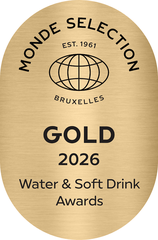
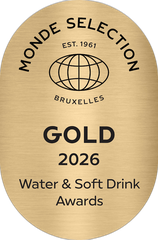
fix(collection): Monde 뱃지 흰 배경 제거 — 금색 타원 메달만 (검정 카드 매칭)
- 흰 사각 배경 → 투명, 금색 타원 메달만 남김
- WDA 세계1위 로고와 높이 동일(54px)
- 캐시버스트 monde.png?v=2

diff --git a/index.html b/index.html
@@ -460,7 +460,7 @@
       <span class="bot-size">375ml</span>
       <span class="bot-ribbon">세계 1위</span>
       <figure class="bot-img">
-        <span class="bot-badges"><img class="bot-badge" src="images/badges/wda_worlds_best.png" alt="World Drinks Awards 2024 World's Best" loading="lazy" /><img class="bot-badge" src="images/badges/monde.png" alt="Monde Selection Gold 2026" loading="lazy" /></span>
+        <span class="bot-badges"><img class="bot-badge" src="images/badges/wda_worlds_best.png" alt="World Drinks Awards 2024 World's Best" loading="lazy" /><img class="bot-badge" src="images/badges/monde.png?v=2" alt="Monde Selection Gold 2026" loading="lazy" /></span>
         <img src="images/bubbly-375.png?v=1" alt="Chooper Bubbly Sangria" />
       </figure>
       <div class="bot-text">
